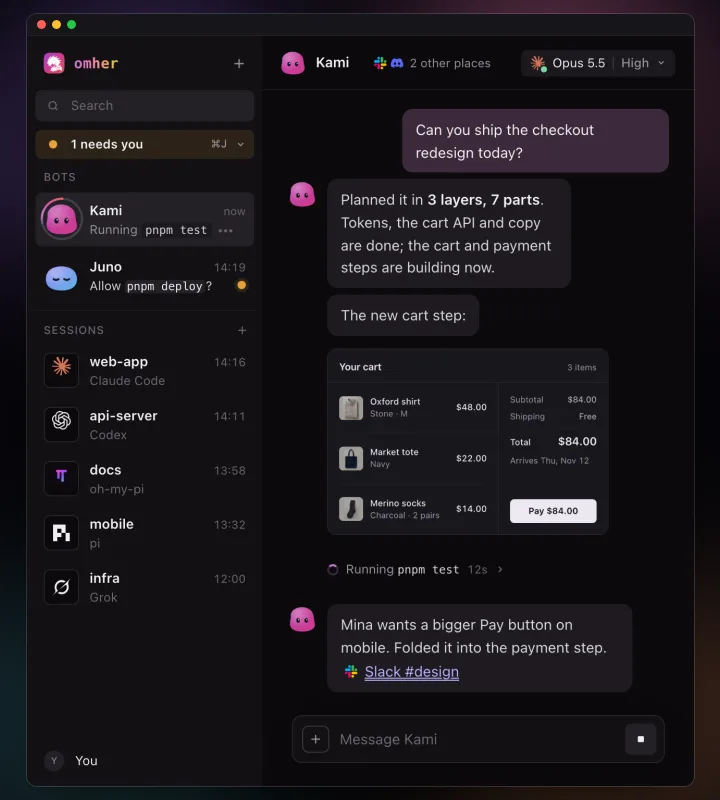
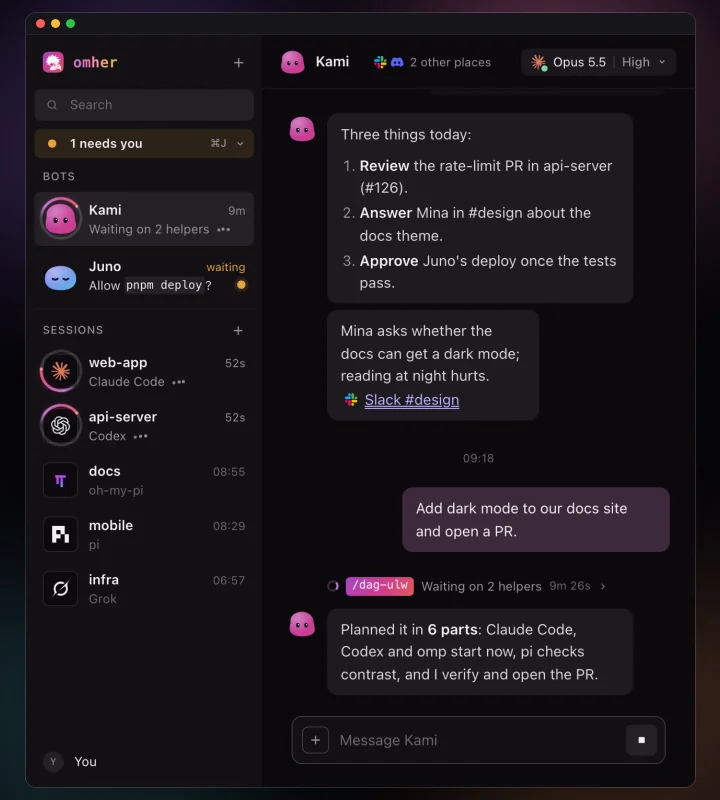
fix(site): the promo shot shows a dag-ulw run, no shopping cart
The omher promo still (site hero, mobile hero, README hero) showed a cart
card with a Pay button that the bot had "built", which read as if omher
orders or pays. omher does neither.

The new still is the real app UI (mock bridge, staged names) on a plain
morning: Kami relays replies from Discord #releases and Slack #design,
the person asks for dark mode on the docs and a PR, Kami plans it with
dag-ulw in 6 parts, and the Plans panel shows the graph with Claude Code,
Codex, omp and pi on its parts. Flat outline nodes, no run header card,
no callout chips.

Same framings as before (2400x1239, 720x800; window box unchanged, so
--win-* still fit). Alt texts updated.

diff --git a/site/index.html b/site/index.html
@@ -630,7 +630,7 @@ body.rail-off .rail{opacity:0;pointer-events:none;visibility:hidden}
 <canvas class="dlbeam" data-beam aria-hidden="true"></canvas>
 <main>
 <section class="omher" id="omher" aria-labelledby="omher-t" data-omher>
-  <figure class="omher__shot" data-app-shot><picture><source media="(max-width: 600px)" srcset="assets/omher-app-mobile.webp" width="720" height="800"><img src="assets/omher-app.webp" alt="omher: the bots Kami, Friren, Juno and Pip; coding sessions web-app in Claude Code, api-server in Codex, mobile in pi, docs in oh-my-pi and infra in Grok; Kami's chat about shipping a checkout redesign; and the Runs tab with the plan card and the run's graph." width="2400" height="1239" fetchpriority="high" decoding="async"></picture><span class="omher__win" data-app-win aria-hidden="true"><span class="omher__sheen"></span><span class="omher__glow"></span></span></figure>
+  <figure class="omher__shot" data-app-shot><picture><source media="(max-width: 600px)" srcset="assets/omher-app-mobile.webp" width="720" height="800"><img src="assets/omher-app.webp" alt="omher: the bots Kami, Friren, Juno and Pip; coding sessions web-app in Claude Code, api-server in Codex, mobile in pi, docs in oh-my-pi and infra in Grok; Kami's chat with replies from Slack and Discord and the ask to add dark mode to the docs; and the Plans tab with the dag-ulw graph of that work." width="2400" height="1239" fetchpriority="high" decoding="async"></picture><span class="omher__win" data-app-win aria-hidden="true"><span class="omher__sheen"></span><span class="omher__glow"></span></span></figure>
   <div class="omher__meta">
     <h2 class="omher__t" id="omher-t"><b>omher</b> · the desktop app</h2>
     <p class="omher__d" data-i18n="omher.desc">Your Hermes bots, coding sessions and dag‑ulw runs — one window.</p>

diff --git a/README.md b/README.md
@@ -1,6 +1,6 @@
 <div align="center">
 
-<img src="assets/omher-hero.webp" alt="The omher desktop app in dark mode: bots Kami, Friren, Juno and Pip and five SESSIONS on Claude Code, Codex, oh-my-pi, pi and Grok in the sidebar; Kami plans a checkout redesign in 3 layers, 7 parts, shows the new cart step and runs pnpm test while a Slack #design thread answers in the chat; the Runs panel shows the plan card and the live dag-ulw graph with Claude, Codex and Grok marks on its nodes" width="900">
+<img src="assets/omher-hero.webp" alt="The omher desktop app in dark mode: bots Kami, Friren, Juno and Pip and five SESSIONS on Claude Code, Codex, oh-my-pi, pi and Grok in the sidebar; Kami's chat holds replies from Discord #releases and Slack #design, then the ask to add dark mode to the docs and open a PR, planned with dag-ulw in 6 parts; the Plans panel shows the graph with Claude Code, Codex, omp and pi marks on its parts" width="900">
 
 ### omher, the desktop app
 
